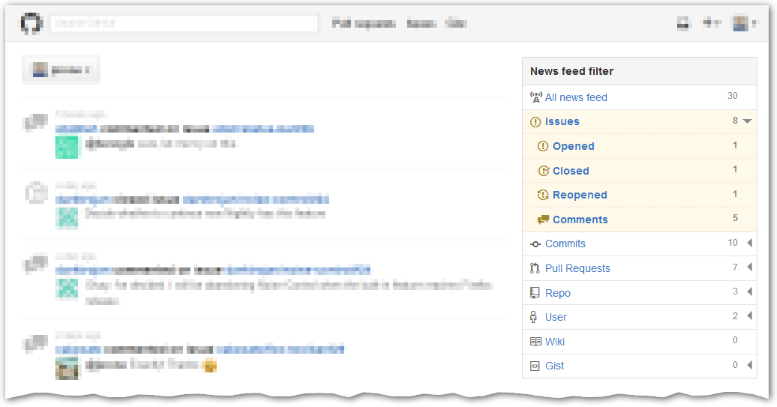
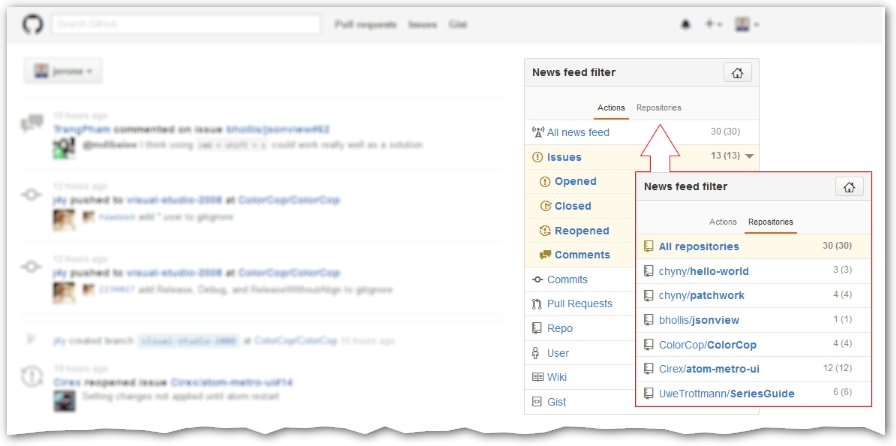
:memo: Update readme and screenshot;

diff --git a/Github_News_Feed_Filter/Github_News_Feed_Filter.user.js b/Github_News_Feed_Filter/Github_News_Feed_Filter.user.js
@@ -14,7 +14,7 @@
 // @include     https://github.com/orgs/*/dashboard
 // @include     https://github.com/orgs/*/dashboard?*
 // @include     https://github.com/*tab=activity*
-// @version     6.1
+// @version     6.2
 // @grant       none
 // ==/UserScript==
 /* global Event */

diff --git a/Github_News_Feed_Filter/README.md b/Github_News_Feed_Filter/README.md
@@ -14,40 +14,43 @@ This script also works for organizations and on user profiles [public activity](
 
 Currently integrated filters:
 
-* Issues
-    * Opened
-    * Closed
-    * Reopened
-    * Comments
-* Commits
-    * Pushed
-    * Comments
-* Pull Requests
-    * Opened
-    * Closed
-    * Merged
-    * Comments
-* Repo
-    * Created
-    * Public
-    * Forked
-    * Deleted
-    * Release
-    * Branch
+* Actions
+    * Issues
+        * Opened
+        * Closed
+        * Reopened
+        * Comments
+    * Commits
+        * Pushed
+        * Comments
+    * Pull Requests
+        * Opened
+        * Closed
+        * Merged
+        * Comments
+    * Repo
         * Created
+        * Public
+        * Forked
         * Deleted
-    * Tag
-        * Added
-        * Removed
-* User
-    * Starred
-    * Member added
-* Wiki
-    * Created
-    * Edited
-* Gist
-    * Created
-    * Updated
+        * Release
+        * Branch
+            * Created
+            * Deleted
+        * Tag
+            * Added
+            * Removed
+    * User
+        * Starred
+        * Member added
+    * Wiki
+        * Created
+        * Edited
+    * Gist
+        * Created
+        * Updated
+* Repositories
+    * _Variable on the repos currently in your news list_
 
 
 ## Screenshot
@@ -63,6 +66,8 @@ Currently integrated filters:
 
 
 ## Version History
+* **6.2**
+    * :sparkles: Filter by repo. Fixes [#70](https://github.com/jerone/UserScripts/issues/70);
 * **6.1**
     * :bug: Fixed counting repo releases as tag actions;
     * :sparkles: Split wiki filter in created and edited;
@@ -108,9 +113,9 @@ Currently integrated filters:
 
 ## TODO
 
-- ~~Remember filter choice (use href);~~
-- ~~Can probably run on users public activity stream too (https://github.com/jerone?tab=activity);~~ Only works on direct access.
-- Filter on project;
+- ~~Run on users public activity stream (https://github.com/jerone?tab=activity);~~ _Only works on direct access._
+- ~~Filter by repo~~;
+- Filter by user;
 
 
 ## External links
